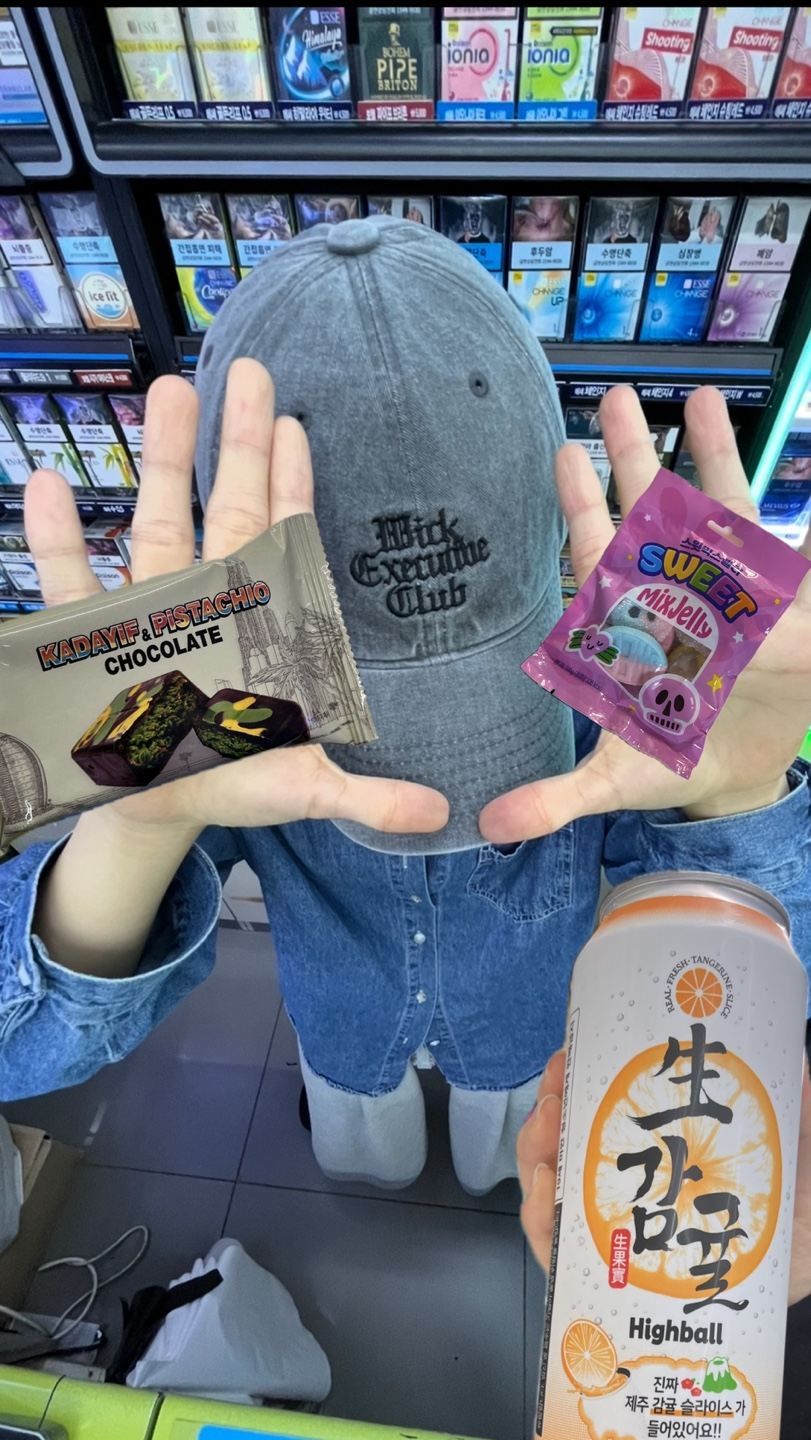
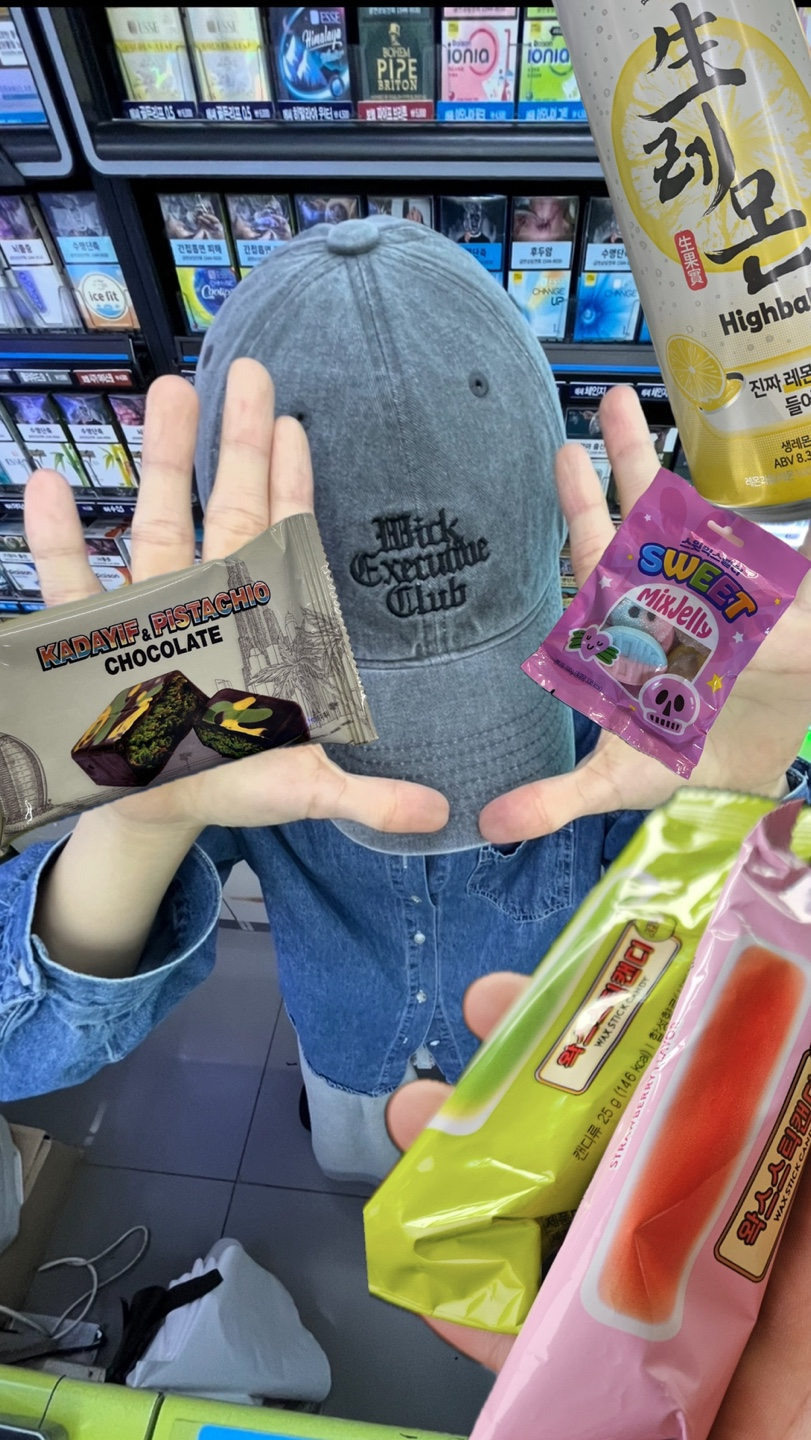
1차 과제 최종 완성
오타 수정 및 시맨틱 태그 수정, 사진 변경

Changed region(s): [[0.4316, 0.5312, 1.0, 1.0], [0.6782, 0.0, 1.0, 0.375]]

diff --git a/src/pages/hobby.html b/src/pages/hobby.html
@@ -23,29 +23,29 @@
     </nav> 
 
 
-    <div class="info">
-        <div class="card">
+    <main class="info">
+        <section class="card">
             <div class="front">기타 연주하기</div>
             <div class="back">
                 <img src="기타.jpg" alt="기타연주하는 사진">
             </div>
-        </div>
+        </section>
 
-        <div class="card">
+        <section class="card">
             <div class="front">편의점 신상 탐방</div>
             <div class="back">
-                <img src="편의점.jpg" alt="편의점 컬렉션 사진">
+                <img src="편의점.jpg" alt="편의점 신제품 사진">
             </div>
-        </div>
+        </section>
 
 
-        <div class="card">
+        <section class="card">
             <div class="front">우드퍼즐 만들기</div>
             <div class="back">
-                <img src="우드퍼즐.jpg" alt="만든 우드퍼즐 작품 사진">
+                <img src="우드퍼즐.jpg" alt="완성된 우드퍼즐 사진">
             </div>
-        </div>
-    </div>
+        </section>
+    </main>
 
     <p>마우스를 올리면 사진이 보여요.</p>
 

diff --git a/index.html b/index.html
@@ -26,17 +26,17 @@
 
 
 
-    <section class="info">
+    <main class="info">
       <img src="me.jpg" alt="인물 사진">
         <ul class=text_info>
           <li><span class= "list">name:</span> 우다연</li>
-          <li><span class= "list"></span> (충남대학교 컴퓨터융합학부) </li>
+          <li><span class= "list"></span> (컴퓨터융합학부 2학년) </li>
           <li><span class= "list">age:</span> 22</li>
           <li><span class= "list">mbti: </span>mbti불신자</li>
           <li><span class= "list">email:</span>dy_woo0409@naver.com </li>
           <li><a href="https://www.instagram.com/0409__wdy_?igsh=MTRjc2FxeHExd2N1Zw%3D%3D&utm_source=qr" ><i class="fa-brands fa-instagram"></i></a></li>
        </ul>
-   </section>
+   </main>
 
    <h2>"프론트엔드 트렉 23학번 우다연입니다."</h2>
      

diff --git a/style.css b/style.css
@@ -142,7 +142,6 @@ table {
 
 /*hobby css*/
 .card{
-    
     text-align: center;
     margin: 0px 20px;
     display: flex;
@@ -153,13 +152,14 @@ table {
     border-radius:  10%;
     background-color: var(--gray-light-color);
     border: 0.5px solid grey;
-  box-shadow: 3px 10px 18px 5px #888888;
-  margin-bottom: 20px;
+    box-shadow: 3px 10px 18px 5px #888888;
+    margin-bottom: 20px;
 }
 
 .card img{
-    width: 100%;
-    height: 100%;
+    height: 350px;
+    width: 250px;
+    border-radius: 15px;
 }
 
 .front{

diff --git a/src/pages/goals.html b/src/pages/goals.html
@@ -22,7 +22,7 @@
         </ul>
     </nav> 
 
-    <section class="info">
+    <main class="info">
         <table>
             <caption><h1>2025년 과제<h1></caption>
             <tr>
@@ -44,7 +44,7 @@
                 </h3></td>
             </tr>
         </table>
-    </section>
+    </main>
 
 
 
